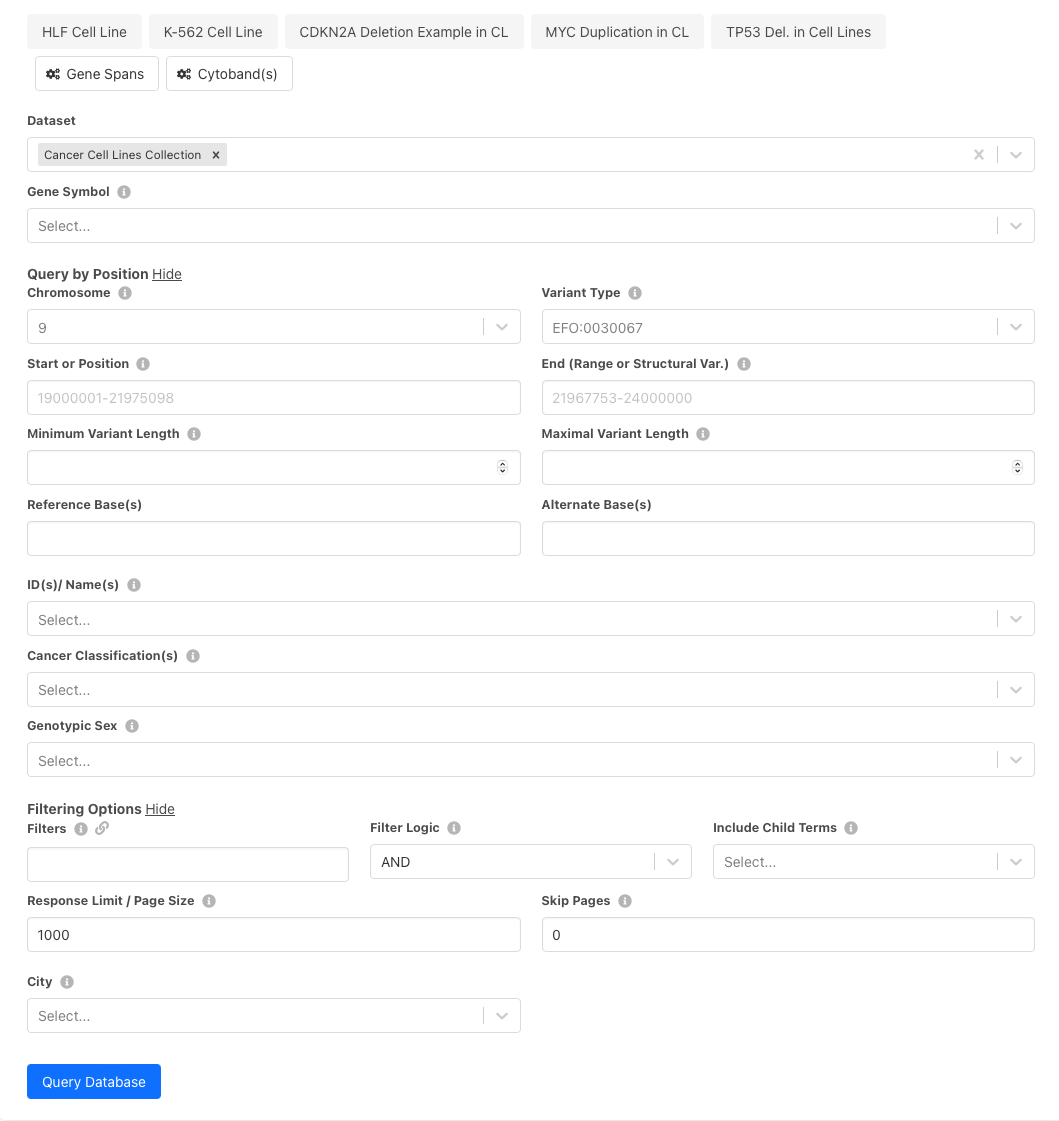
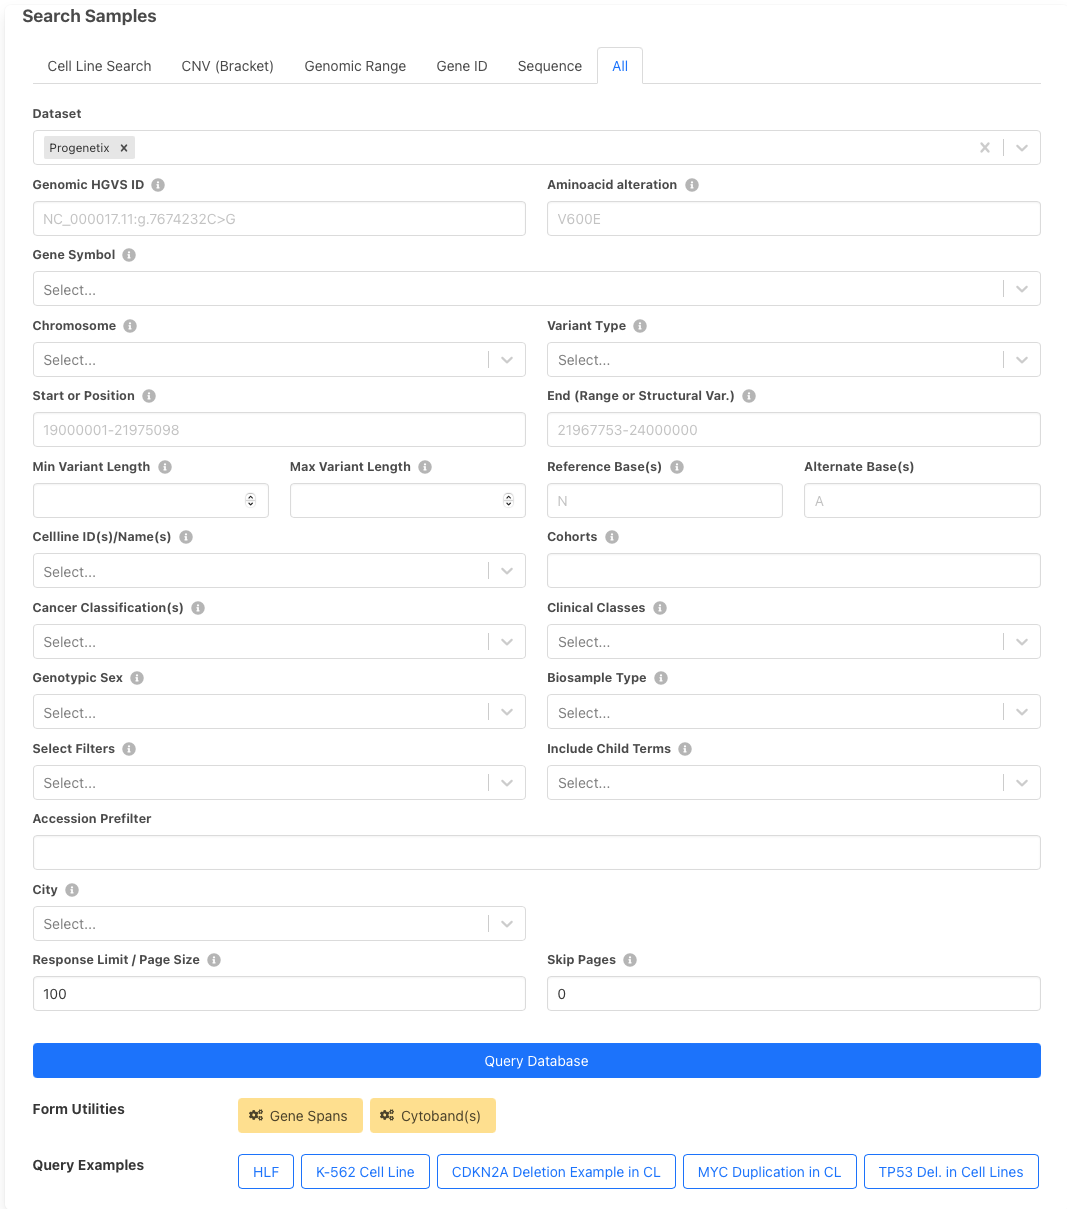
update user guide

diff --git a/docs/user-guide/index.md b/docs/user-guide/index.md
@@ -35,7 +35,8 @@ The last section of the cell line results page shows literature derived gene inf
 You can also search for individual cell line by the name or ID or search for cell lines that match the diagnosis of interest (eg NCIT code) or search for all cell lines that harbour a specific variant. 
 
 ![Search form](search-form.png)
-
+ 
+All search form fields:
 - The top row of the search fields offers some example queries, for both cell lines and positional queries.
 - You can use "Gene Spans" and "Cytobands" buttons to limit your results to a range of a gene of interest or a specific cytoband.
 - Default dataset is Cancer Cell Lines Collection but Progenetix collection is also available to enable queries with tumor samples
@@ -47,7 +48,7 @@ You can also search for individual cell line by the name or ID or search for cel
 - End - end of sequence variation of 1-based genomic positions
 - Minimum/Maximum variant length - for queries with pre-defined variant lengths
 - Reference/Alternate Base(s) - enter reference and altered nucleotide bases
-- IDs/Names - this field can be used to query cell lines by their IDs or to search for results of different PubMed IDs. Cellosaurus IDs or cell line names (Cellosaurus nomenclature) are accepted as input for cell lines.
+- Cell Line IDs/Names - this field can be used to query cell lines by their IDs. Cellosaurus IDs or cell line names (Cellosaurus nomenclature) are accepted as input for cell lines.
 - Cancer Classification(s) - use NCIT or ICDO disease codes to search for cell lines of the diagnostic code.
 - Genotypic Sex - search for male or female cell line samples.
 - Filtering options - additional filters to limit the number of search result, define filter logic and include child terms.
@@ -57,6 +58,8 @@ You can also search for individual cell line by the name or ID or search for cel
 - Response Limit/Page Size - default is 1000, can be increased or decreased
 - Skip Pages - select number of pages to be skipped
 - City - search samples by the annotated city
+
+The top panel includes 5 other short query types: Cell Line Search, CNV query, Genomic Range, Gene ID and Sequence
 
 ### Search Results: Cell Line Query
 
